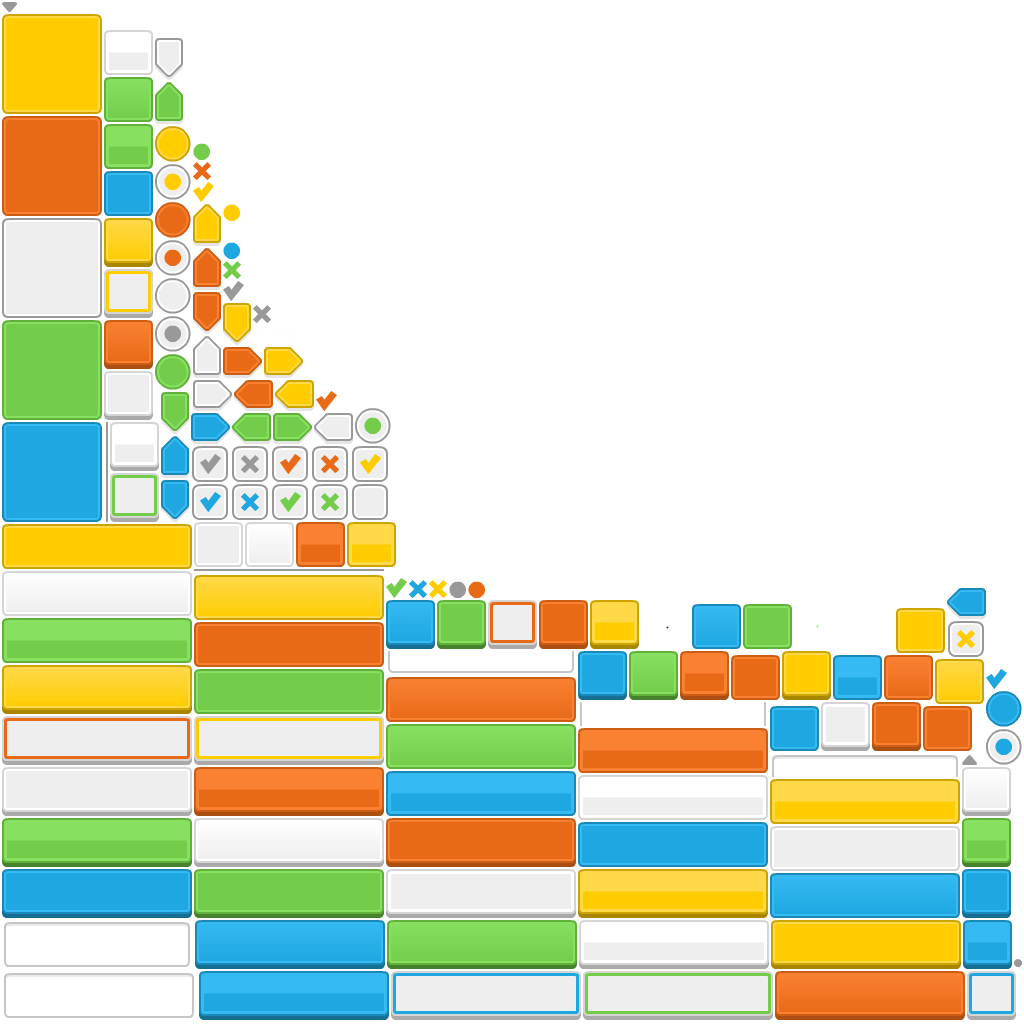
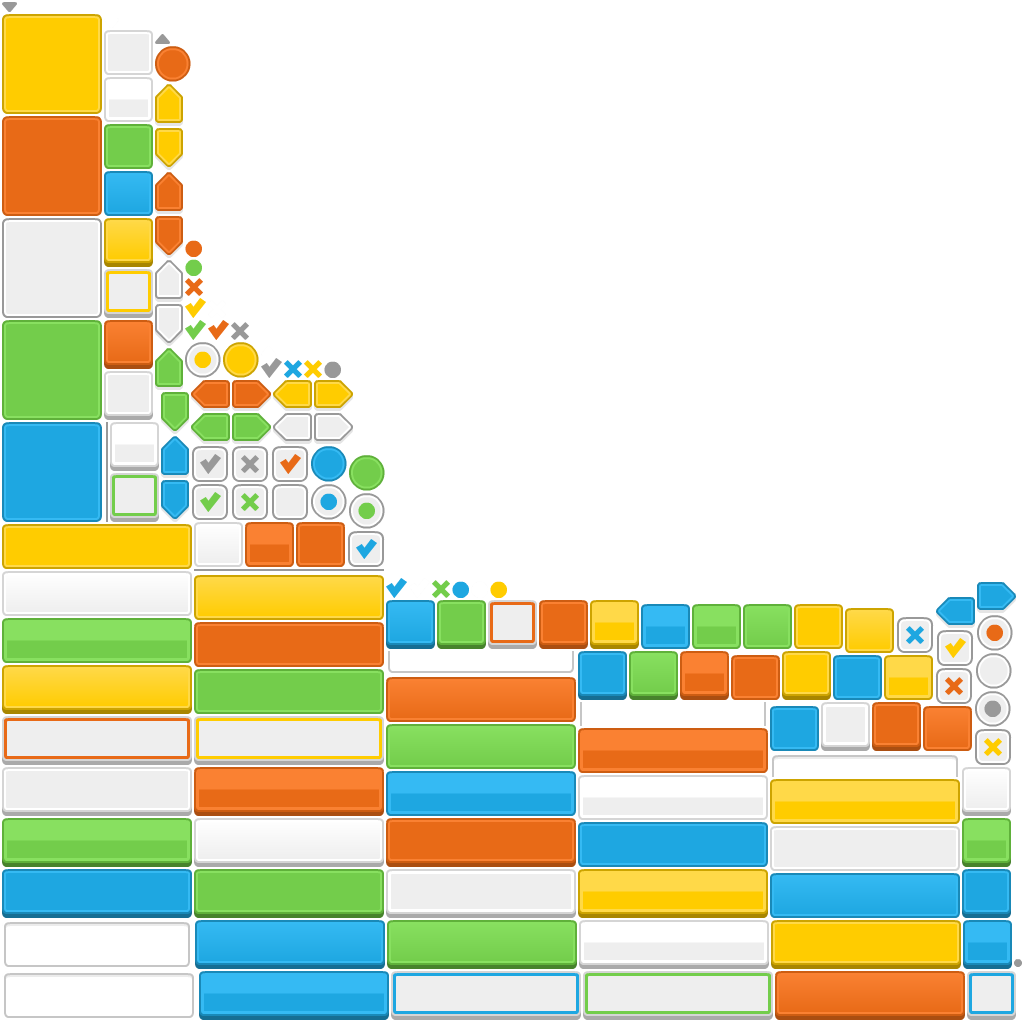
atlasfiler, ny UI

Changed region(s): [[0.0938, 0.0312, 0.5, 0.5938], [0.625, 0.5625, 1.0, 0.75]]

diff --git a/desktop/src/no/fusiontd/desktop/AtlasCreator.java b/desktop/src/no/fusiontd/desktop/AtlasCreator.java
@@ -11,5 +11,6 @@ public class AtlasCreator {
         TexturePacker.process(ASSET_DIR + "/tiles", ASSET_DIR, "tiles");
         TexturePacker.process(ASSET_DIR + "/t", ASSET_DIR, "tiles_new");
         TexturePacker.process(ASSET_DIR + "/sprites", ASSET_DIR, "sprites");
+        TexturePacker.process(ASSET_DIR + "/ui_new", ASSET_DIR, "ui_new");
     }
 }
